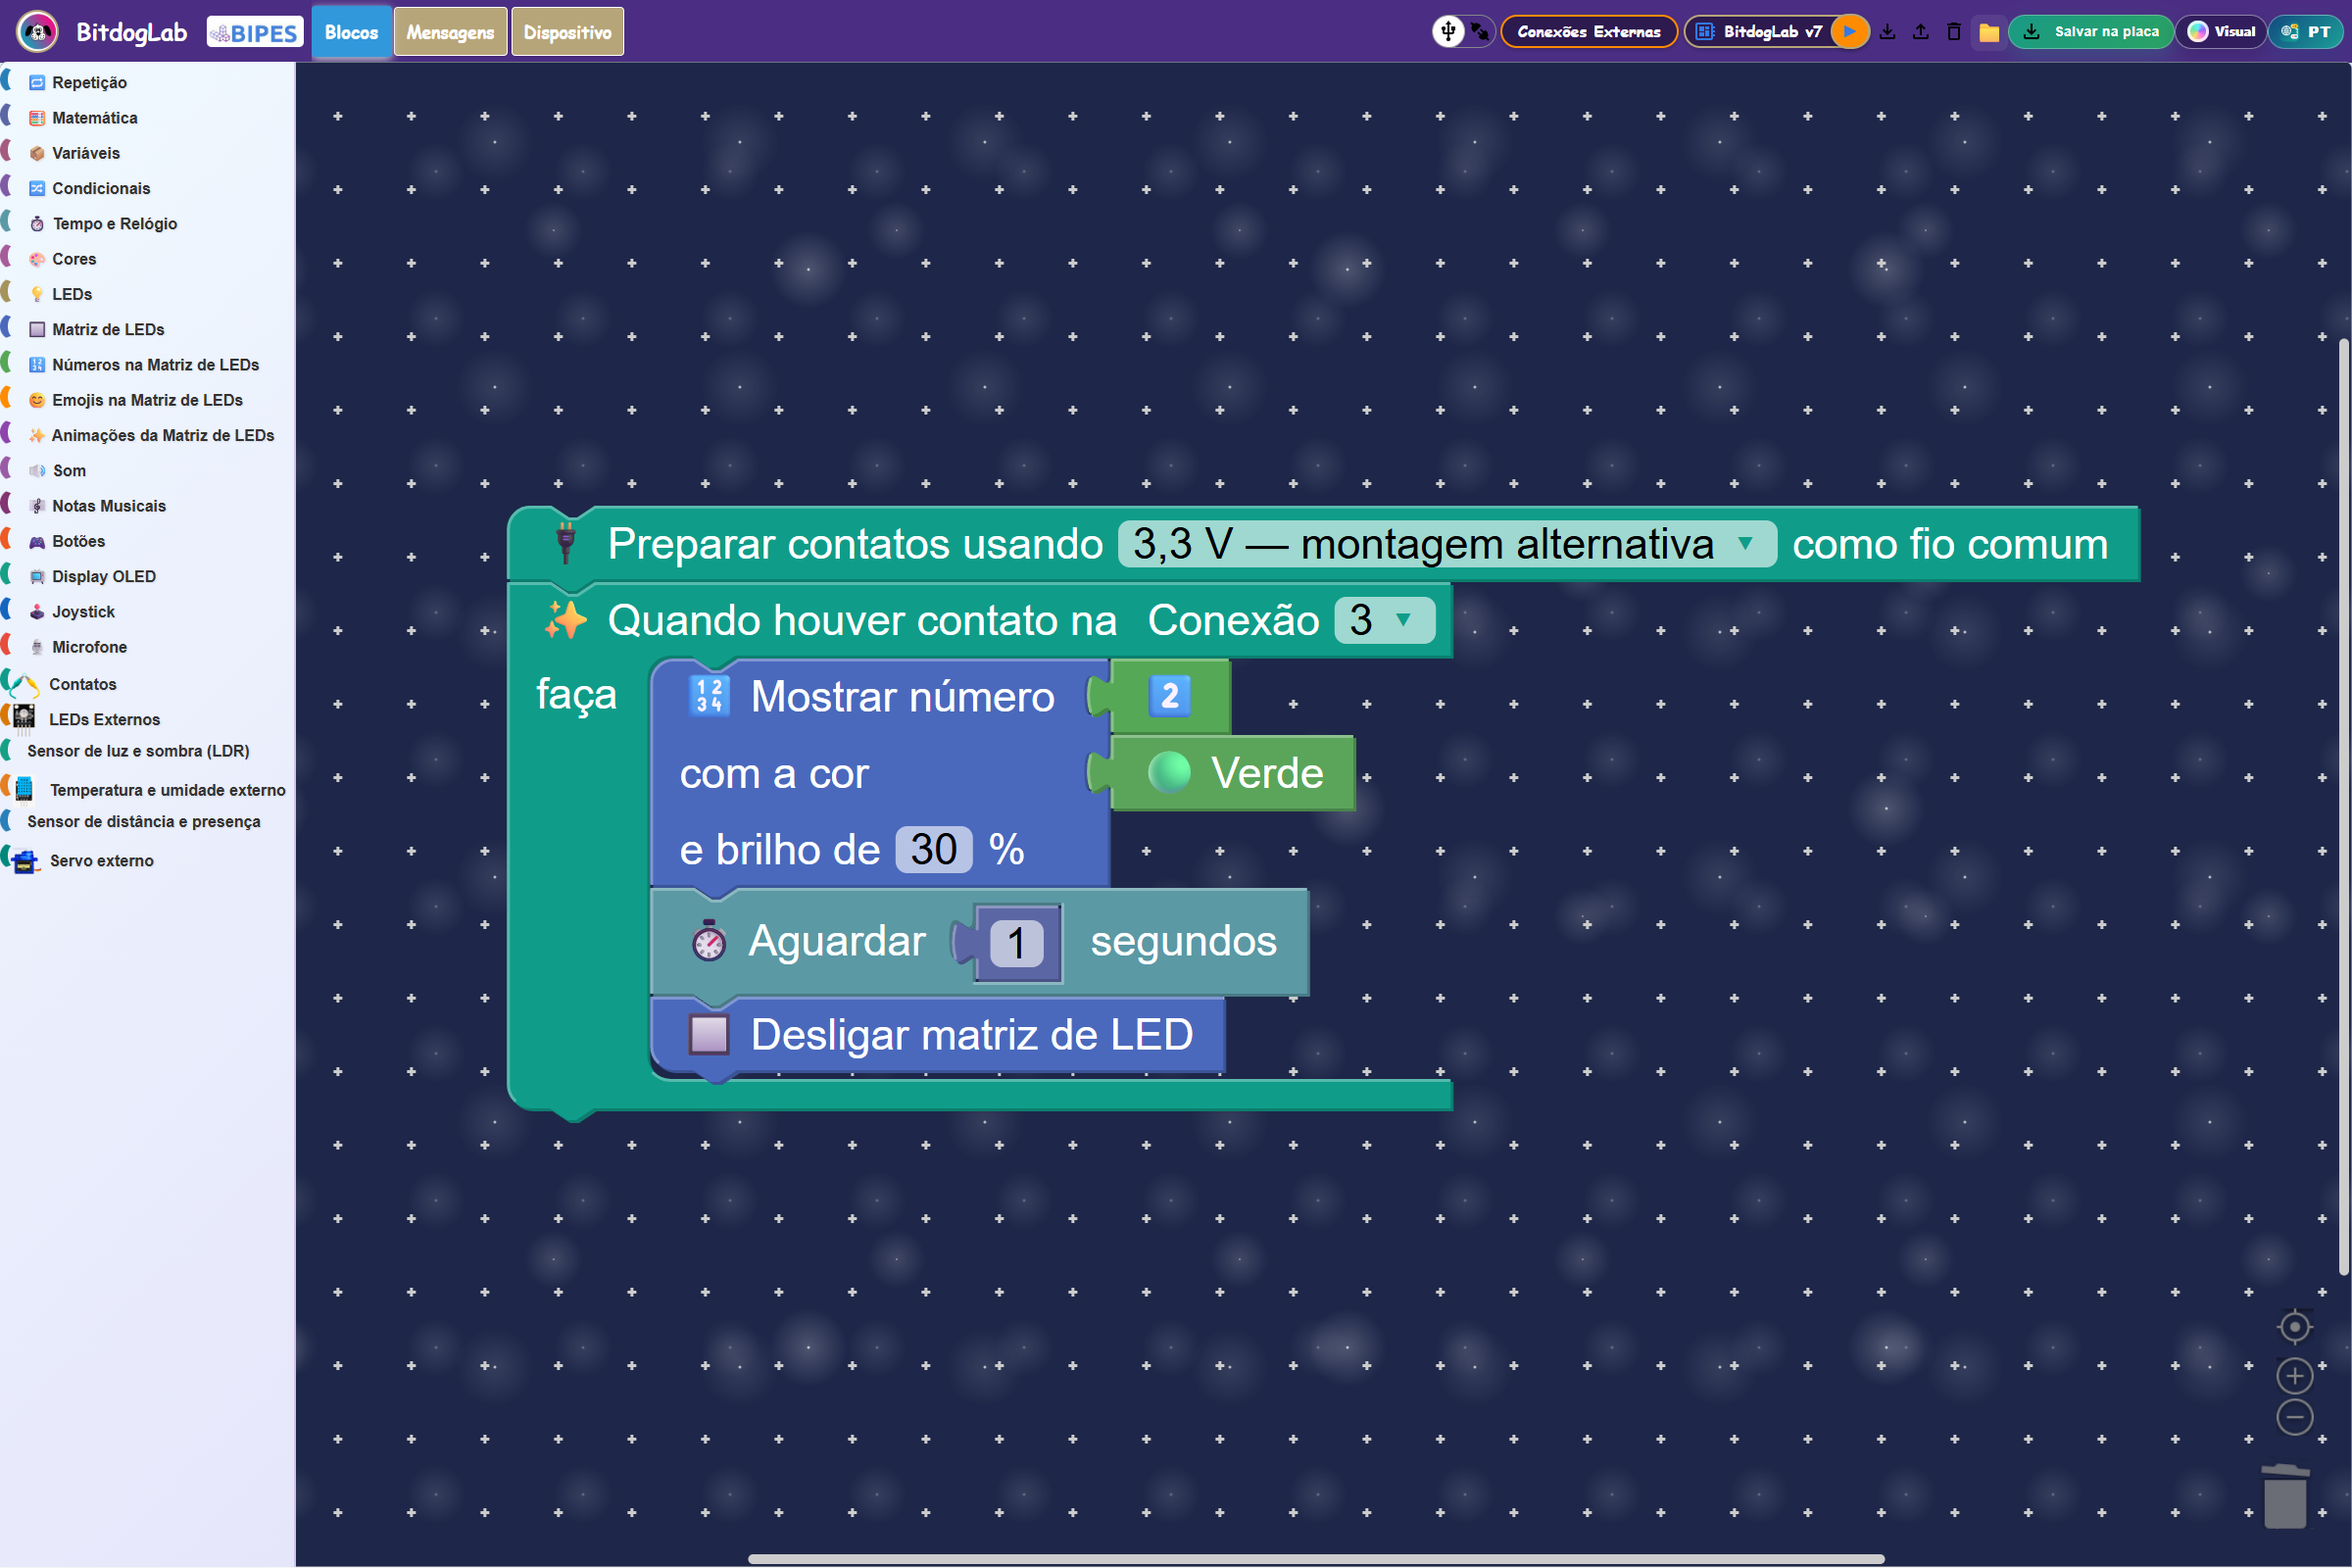
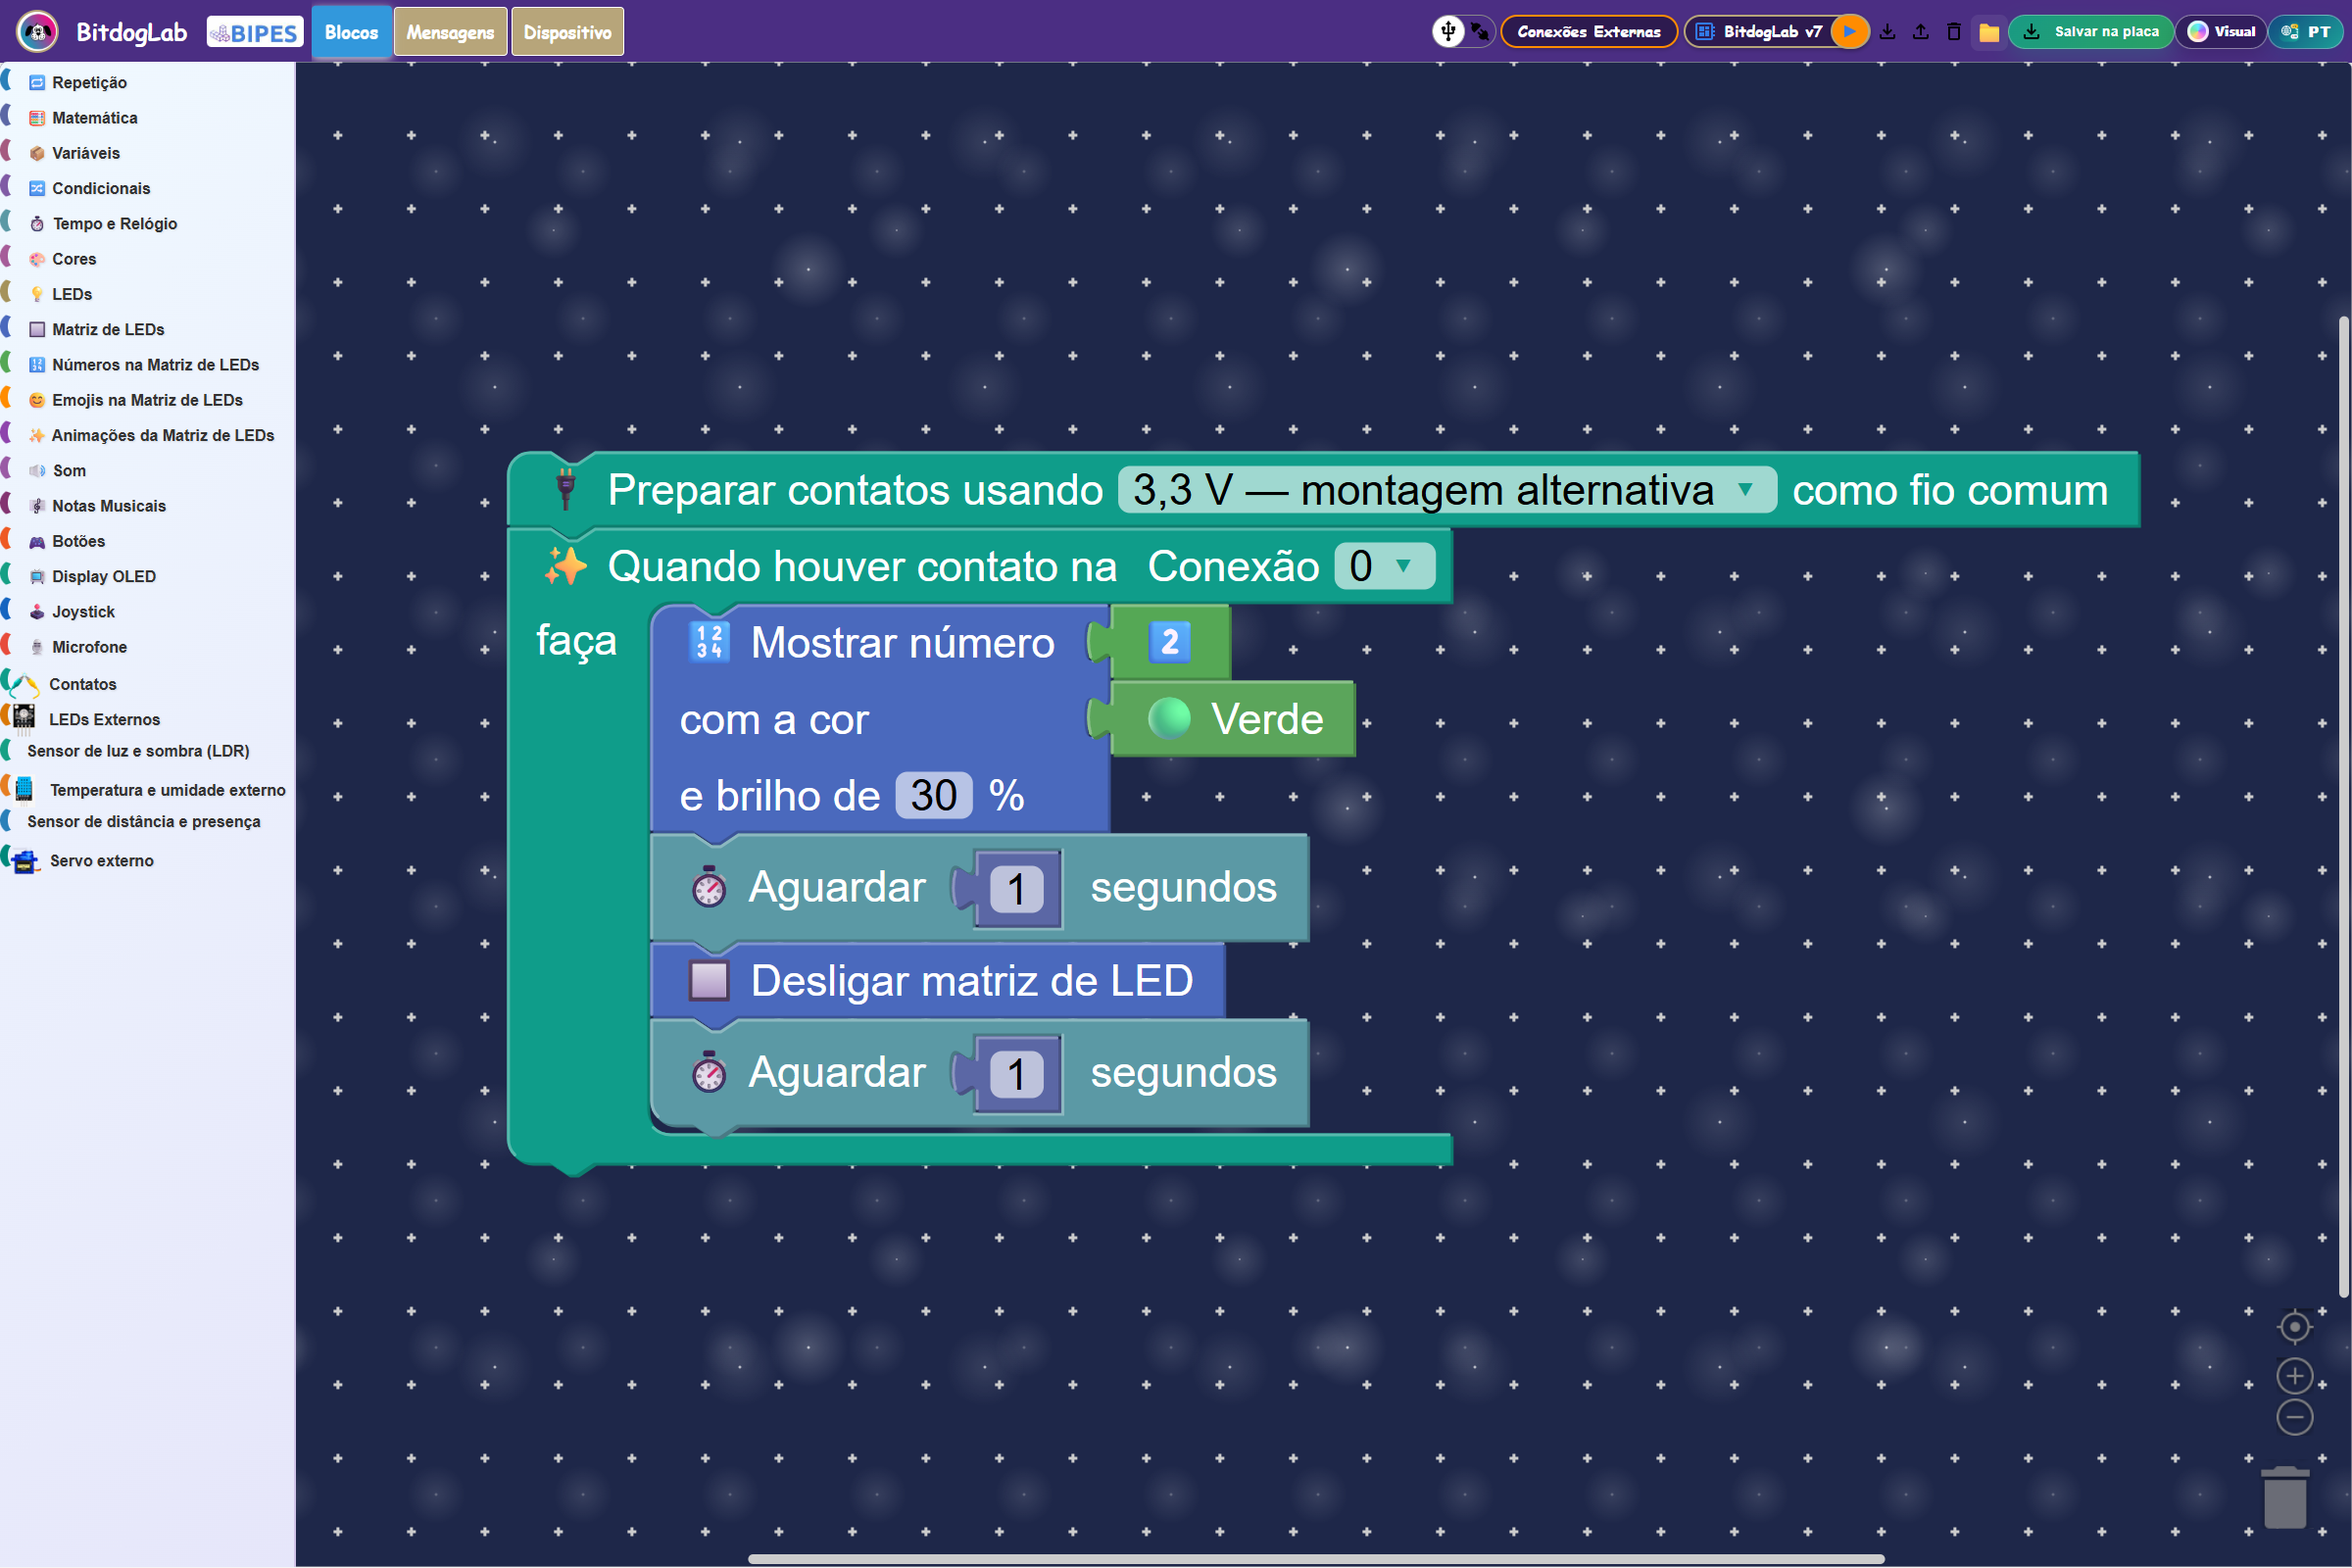
Prevent false 3.3V contact triggers on V7 OLED pins

Changed region(s): [[0.2188, 0.2812, 0.9375, 0.75]]

diff --git a/src/js/blocks/contracts/registry.js b/src/js/blocks/contracts/registry.js
@@ -33,7 +33,9 @@
       externalContactPrepareDuplicate: 'Este preparo está repetido. Um único bloco Preparar contatos vale para todas as Conexões.',
       externalContactOledV7Notice: '👀 Confira os fios! Na BitDogLab V7, o Display usa as Conexões 2 e 3. Se um contato estiver ligado em 2 ou 3, ele pode se atrapalhar com a tela. Para usar contatos e Display juntos, escolha somente as Conexões 0 e 1. Para quatro contatos, retire os blocos do Display durante esse projeto.',
       externalContactOledV7Conflict: 'A Conexão %1 também é usada pelo Display na BitDogLab V7. Para usar contato e tela juntos, escolha a Conexão 0 ou 1.',
+      externalContact3V3OledV7Conflict: 'Na BitDogLab V7, a Conexão %1 recebe sinais da tela mesmo quando ela não aparece no programa. Com o fio comum em 3,3 V, o contato pode parecer encostado o tempo todo. Use a Conexão 0 ou 1.',
       externalContactTestOledV7Conflict: 'O teste verifica as quatro Conexões, mas o Display usa as Conexões 2 e 3 na BitDogLab V7. Remova os blocos do Display antes de testar os contatos.',
+      externalContactTest3V3OledV7Conflict: 'Na BitDogLab V7, o teste de contatos usa também as Conexões 2 e 3. Com o fio comum em 3,3 V, a tela pode fazer esses contatos parecerem encostados. Use GND ou retire o teste durante este projeto.',
       externalContactI2cConflict: 'A Conexão %1 também é usada pelo %2. O contato e esse componente estão tentando usar o mesmo pino da placa. O programa foi bloqueado. Escolha outra Conexão para o contato ou retire um dos dois blocos.',
       servoAngleConnectionMismatch: 'O bloco Último ângulo enviado ao servo usa a Conexão %1, mas nenhum bloco que move o servo usa essa mesma Conexão.',
       servoJoystickSameDirection: 'Escolha direções diferentes para aumentar e diminuir o ângulo do servo. A mesma direção não consegue fazer os dois movimentos.',
@@ -69,7 +71,9 @@
       externalContactPrepareDuplicate: 'This setup is repeated. One Set up contacts block applies to every Connection.',
       externalContactOledV7Notice: '👀 Check the wires! On BitDogLab V7, the display uses Connections 2 and 3. If a contact is connected to 2 or 3, it may interfere with the screen. To use contacts and the display together, choose only Connections 0 and 1. For four contacts, remove the display blocks during this project.',
       externalContactOledV7Conflict: 'Connection %1 is also used by the display on BitDogLab V7. To use a contact and the screen together, choose Connection 0 or 1.',
+      externalContact3V3OledV7Conflict: 'On BitDogLab V7, Connection %1 receives signals from the display even when it is not used in the program. With the common wire on 3.3 V, the contact may look permanently touched. Use Connection 0 or 1.',
       externalContactTestOledV7Conflict: 'The test checks all four Connections, but the display uses Connections 2 and 3 on BitDogLab V7. Remove the display blocks before testing contacts.',
+      externalContactTest3V3OledV7Conflict: 'On BitDogLab V7, the contact test also uses Connections 2 and 3. With the common wire on 3.3 V, the screen may make these contacts look touched. Use GND or remove the test from this project.',
       externalContactI2cConflict: 'Connection %1 is also used by the %2. The contact and this component are trying to use the same board pin. The program was blocked. Choose another contact Connection or remove one of the two blocks.',
       servoAngleConnectionMismatch: 'The Last angle sent to servo block uses Connection %1, but no block that moves the servo uses that same Connection.',
       servoJoystickSameDirection: 'Choose different directions to increase and decrease the servo angle. The same direction cannot perform both movements.',

diff --git a/src/js/blocks/contracts/validator.js b/src/js/blocks/contracts/validator.js
@@ -771,8 +771,11 @@
       }
     }
 
-    if (config.VERSION !== 'v7' || !blocks.some(isOledBlock)) return;
-    if (contactBlocks.length) {
+    if (config.VERSION !== 'v7') return;
+    var hasOledBlock = blocks.some(isOledBlock);
+    var has3V3Preparation = !!preparationModes['3V3'];
+    if (!hasOledBlock && !has3V3Preparation) return;
+    if (hasOledBlock && contactBlocks.length) {
       addNotice(notices, contactBlocks[0], msg('externalContactOledV7Notice'));
     }
     var reserved = (contactConfig.OLED_RESERVED_DIG || ['2', '3']).map(String);
@@ -781,7 +784,13 @@
       if (!contactBlock || !contactBlock.getFieldValue) continue;
 
       if (contactBlock.type === 'external_contact_test_matrix') {
-        addWarning(warnings, contactBlock, msg('externalContactTestOledV7Conflict'));
+        addWarning(
+          warnings,
+          contactBlock,
+          msg(has3V3Preparation
+            ? 'externalContactTest3V3OledV7Conflict'
+            : 'externalContactTestOledV7Conflict')
+        );
         continue;
       }
 
@@ -791,7 +800,9 @@
         addWarning(
           warnings,
           contactBlock,
-          format(msg('externalContactOledV7Conflict'), contactDig)
+          format(msg(has3V3Preparation
+            ? 'externalContact3V3OledV7Conflict'
+            : 'externalContactOledV7Conflict'), contactDig)
         );
       }
     }

diff --git a/src/js/config/profiles/base.js b/src/js/config/profiles/base.js
@@ -68,6 +68,18 @@ var BitdogLabProfileBase = {
              line.startsWith('_btn_c_last_time') ||
              line.startsWith('_btn_joystick_last_time') ||
              line.startsWith('_debounce_ms') ||
+             // Estado persistente dos eventos de contatos externos.
+             // Essas variáveis precisam ser inicializadas antes do loop
+             // principal; se forem recriadas a cada ciclo, o debounce nunca
+             // consegue reconhecer a transição de contato.
+             line.startsWith('_contact_pin_numbers') ||
+             line.startsWith('_contact_common') ||
+             line.startsWith('_contact_pull') ||
+             line.startsWith('_contact_active_level') ||
+             line.startsWith('_contact_debounce_ms') ||
+             line.startsWith('_contact_pins') ||
+             line.startsWith('_contact_states') ||
+             line.startsWith('_contact_event_seen') ||
              line.indexOf('.irq(trigger=') !== -1 ||
              line.indexOf(' = ADC(') !== -1 ||
              line.startsWith('joystick_') ||
